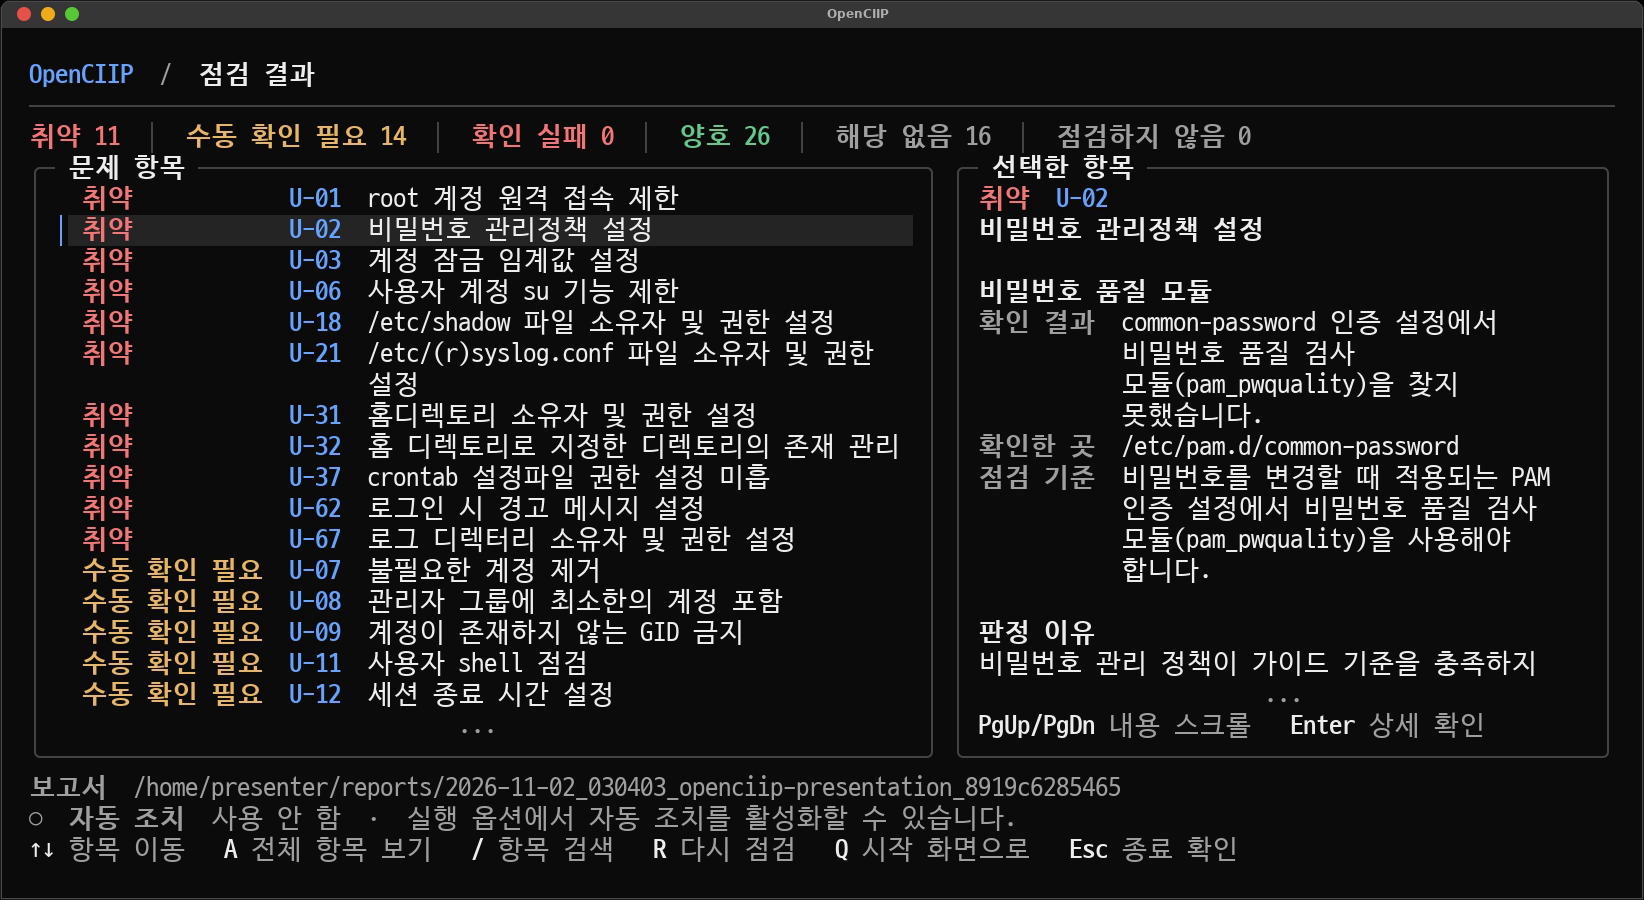
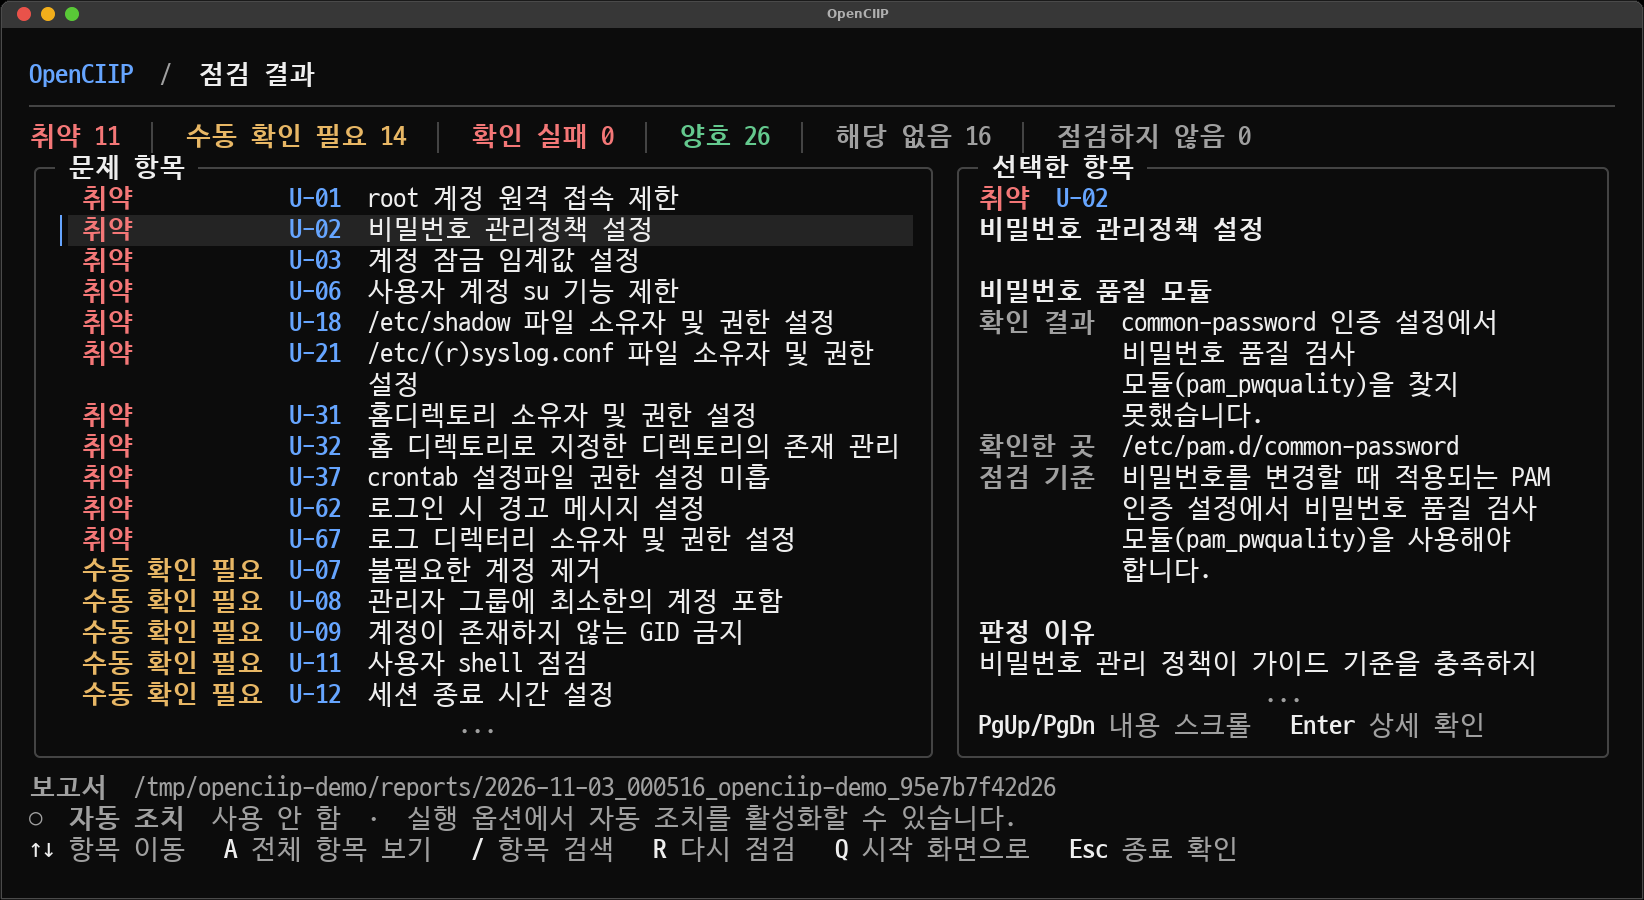
docs: README와 공개 문서 정리

diff --git a/internal/platform/support_fixture_test.go b/internal/platform/support_fixture_test.go
@@ -6,6 +6,7 @@ import (
 	"errors"
 	"fmt"
 	"io"
+	"maps"
 	"os"
 	"path/filepath"
 	"strings"
@@ -96,7 +97,11 @@ func TestTestedPlatformFixturesMatchDefaultBindings(t *testing.T) {
 		if err != nil {
 			t.Fatalf("read support document %s: %v", document, err)
 		}
-		actualRows := testedSupportRows(t, document, string(content))
+		actualRows, err := testedSupportRows(string(content))
+		if err != nil {
+			t.Errorf("parse support document %s: %v", document, err)
+			continue
+		}
 		for row := range expectedDocumentedRows {
 			if _, exists := actualRows[row]; !exists {
 				t.Errorf("support document %s is missing row %q", document, row)
@@ -110,21 +115,124 @@ func TestTestedPlatformFixturesMatchDefaultBindings(t *testing.T) {
 	}
 }
 
-func testedSupportRows(t *testing.T, document, content string) map[string]struct{} {
-	t.Helper()
+func testedSupportRows(content string) (map[string]struct{}, error) {
 	rows := make(map[string]struct{})
-	for _, line := range strings.Split(content, "\n") {
-		row := strings.TrimSpace(strings.TrimSuffix(line, "\r"))
-		if !strings.HasPrefix(row, "| ") || !strings.HasSuffix(row, "| 테스트 완료 |") {
-			continue
-		}
+	compact := false
+	lastProse := ""
+	addRow := func(row string) error {
 		if _, duplicate := rows[row]; duplicate {
-			t.Errorf("support document %s repeats tested row %q", document, row)
-			continue
+			return fmt.Errorf("repeated tested row %q", row)
 		}
 		rows[row] = struct{}{}
+		return nil
 	}
-	return rows
+	for _, line := range strings.Split(content, "\n") {
+		row := strings.TrimSpace(strings.TrimSuffix(line, "\r"))
+		if !strings.HasPrefix(row, "|") || !strings.HasSuffix(row, "|") {
+			compact = false
+			if row != "" {
+				lastProse = row
+			}
+			continue
+		}
+		cells := strings.Split(strings.Trim(row, "|"), "|")
+		for index := range cells {
+			cells[index] = strings.TrimSpace(cells[index])
+		}
+		if len(cells) == 2 && cells[0] == "운영체제" && cells[1] == "테스트 버전" {
+			if !strings.Contains(lastProse, "amd64") {
+				return nil, fmt.Errorf("compact support table does not specify Linux amd64 scope")
+			}
+			compact = true
+			continue
+		}
+		if compact {
+			if len(cells) != 2 {
+				return nil, fmt.Errorf("invalid compact support row %q", row)
+			}
+			if strings.Trim(cells[0], "-: ") == "" && strings.Trim(cells[1], "-: ") == "" {
+				continue
+			}
+			if cells[0] == "" {
+				return nil, fmt.Errorf("missing operating system in %q", row)
+			}
+			for _, version := range strings.Split(cells[1], ",") {
+				version = strings.TrimSpace(version)
+				if version == "" {
+					return nil, fmt.Errorf("missing version in %q", row)
+				}
+				if err := addRow(fmt.Sprintf("| %s | %s | amd64 | 테스트 완료 |", cells[0], version)); err != nil {
+					return nil, err
+				}
+			}
+			continue
+		}
+		if strings.HasPrefix(row, "| ") && strings.HasSuffix(row, "| 테스트 완료 |") {
+			if err := addRow(row); err != nil {
+				return nil, err
+			}
+		}
+	}
+	return rows, nil
+}
+
+func TestTestedSupportRows(t *testing.T) {
+	tested := map[string]struct{}{
+		"| Ubuntu | 22.04 LTS | amd64 | 테스트 완료 |": {},
+		"| Ubuntu | 26.04 LTS | amd64 | 테스트 완료 |": {},
+	}
+	tests := []struct {
+		name    string
+		content string
+		want    map[string]struct{}
+		wantErr bool
+	}{
+		{
+			name: "one version per row",
+			content: "| 운영체제 | 버전 | 아키텍처 | 상태 |\n" +
+				"| Ubuntu | 22.04 LTS | amd64 | 테스트 완료 |\n" +
+				"| Ubuntu | 26.04 LTS | amd64 | 테스트 완료 |\n",
+			want: tested,
+		},
+		{
+			name: "versions grouped by operating system",
+			content: "다음 환경은 amd64에서 점검했습니다.\n\n" +
+				"| 운영체제 | 테스트 버전 |\n| --- | --- |\n" +
+				"| Ubuntu | 22.04 LTS, 26.04 LTS |\n",
+			want: tested,
+		},
+		{
+			name: "grouped table without architecture",
+			content: "| 운영체제 | 테스트 버전 |\n| --- | --- |\n" +
+				"| Ubuntu | 22.04 LTS |\n",
+			wantErr: true,
+		},
+		{
+			name: "duplicate version in grouped table",
+			content: "다음 Linux amd64 환경에서 점검했습니다.\n\n" +
+				"| 운영체제 | 테스트 버전 |\n| --- | --- |\n" +
+				"| Ubuntu | 22.04 LTS, 22.04 LTS |\n",
+			wantErr: true,
+		},
+		{
+			name: "missing version in grouped table",
+			content: "다음 Linux amd64 환경에서 점검했습니다.\n\n" +
+				"| 운영체제 | 테스트 버전 |\n| --- | --- |\n" +
+				"| Ubuntu | 22.04 LTS, |\n",
+			wantErr: true,
+		},
+	}
+	for _, test := range tests {
+		t.Run(test.name, func(t *testing.T) {
+			got, err := testedSupportRows(test.content)
+			if (err != nil) != test.wantErr {
+				t.Fatalf("testedSupportRows() error = %v, want error %t", err, test.wantErr)
+			}
+			if !test.wantErr && !maps.Equal(got, test.want) {
+				t.Fatalf("testedSupportRows() = %v, want %v", got, test.want)
+			}
+		})
+	}
 }
 
 func loadSupportFixture(t *testing.T, path string) supportFixture {

diff --git a/README.md b/README.md
@@ -1,99 +1,83 @@
 # OpenCIIP
 
-Linux 서버의 보안 설정을 점검하고 결과를 정리하는 터미널 도구입니다. 주요정보통신기반시설 기술적 취약점 분석·평가 방법 상세가이드의 Unix 서버 항목을 기준으로 합니다.
+OpenCIIP는 [주요정보통신기반시설 기술적 취약점 분석·평가 방법 상세가이드](https://www.kisa.or.kr/2060204/form?postSeq=22)의 Unix 서버 항목을 기반으로 Linux 서버의 보안 설정을 점검하는 도구입니다.
 
 [![Go](https://img.shields.io/badge/Go-1.26%2B-00ADD8?style=flat-square&logo=go&logoColor=white)](https://go.dev/) [![Linux](https://img.shields.io/badge/Linux-amd64-FCC624?style=flat-square&logo=linux&logoColor=black)](https://www.kernel.org/) [![Bubble Tea](https://img.shields.io/badge/TUI-Bubble%20Tea-7D56F4?style=flat-square)](https://github.com/charmbracelet/bubbletea) [![Cobra](https://img.shields.io/badge/CLI-Cobra-46A2F1?style=flat-square)](https://github.com/spf13/cobra) [![License](https://img.shields.io/badge/License-Apache%202.0-D22128?style=flat-square&logo=apache&logoColor=white)](LICENSE)
 
-[빠른 시작](#빠른-시작) · [점검 결과](#점검-결과) · [지원 환경](#지원-환경) · [자동 조치](#자동-조치) · [문서](#문서)
+[시작하기](#시작하기) · [점검 결과](#점검-결과) · [지원 환경](#지원-환경) · [자동 조치](#자동-조치) · [문서](#문서)
 
-![OpenCIIP 터미널의 점검 결과 화면](assets/openciip-results.png)
-
-<sub>점검 결과 화면 예시 · 개발 중인 버전</sub>
+![OpenCIIP 시작 화면](assets/openciip-home.png)
 
 ## 주요 기능
 
-- U-01부터 U-67까지 서버 설정을 읽기 전용으로 점검합니다.
-- 터미널 화면에서 항목별 확인 결과와 점검 기준을 살펴볼 수 있습니다.
-- CLI로 전체 항목이나 필요한 항목만 선택해 점검할 수 있습니다.
-- JSON과 텍스트 보고서를 생성하며 민감정보는 기본적으로 가립니다.
-- 지원 환경에서 일부 취약 항목의 변경 계획과 자동 조치를 제공합니다.
+- 전체 또는 선택 항목 점검
+- 각 항목의 판정 결과, 관련 설정 및 점검 기준 조회
+- JSON 및 텍스트 보고서 생성, 민감정보 기본 마스킹
+- 자동 조치 (현재 일부 항목만 지원)
 
-## 빠른 시작
+기본 점검은 시스템 설정을 변경하지 않는 읽기 전용 방식으로 수행됩니다.
 
-[Releases](https://github.com/yesidodo73/OpenCIIP/releases)에서 `openciip-linux-amd64`를 내려받습니다. 실행 파일에 점검 규칙이 포함되어 있으므로 서버에 Go나 별도 규칙 파일을 설치할 필요는 없습니다.
+## 시작하기
 
-실행 권한을 부여한 뒤 터미널 화면을 시작합니다.
+[Releases](https://github.com/yesidodo73/OpenCIIP/releases)에서 `openciip-linux-amd64`를 다운로드하고 실행 권한을 부여합니다. 점검 규칙은 실행 파일에 포함되어 있습니다.
 
 ```bash
 chmod +x ./openciip-linux-amd64
 sudo ./openciip-linux-amd64
 ```
 
-CLI에서 정상 항목을 포함한 전체 결과를 확인하려면 다음과 같이 실행합니다.
+시작 화면에서 `점검 시작`을 선택하면 전체 항목을 점검합니다. 점검할 항목이나 보고서 저장 경로, 증적 저장 범위 등은 `실행 옵션`에서 변경할 수 있습니다.
 
-```bash
-sudo ./openciip-linux-amd64 scan --all
-```
+![OpenCIIP 실행 옵션 화면](assets/openciip-options.png)
 
-특정 항목만 점검할 수도 있습니다.
+root 권한 없이 실행할 수도 있지만, 일부 시스템 설정에 접근하지 못해 점검이 제한될 수 있습니다.
 
-```bash
-sudo ./openciip-linux-amd64 scan --check U-01,U-02,U-03
-```
-
-root 권한이 없으면 보호된 설정과 시스템 상태를 확인하지 못할 수 있습니다. 옵션과 종료 코드는 [사용 방법](docs/USAGE.md)에서 확인하세요.
+실행 옵션에 관한 자세한 내용은 [사용 방법](docs/USAGE.md)을 참고하세요.
 
 ## 점검 결과
 
-| 화면과 TXT 표시 | JSON 상태 코드 | 의미 |
-| --- | --- | --- |
-| `양호` | `PASS` | 점검 기준을 충족합니다. |
-| `취약` | `FAIL` | 점검 기준을 충족하지 않습니다. |
-| `수동 확인 필요` | `UNKNOWN` | 현재 정보만으로 판단하기 어렵습니다. |
-| `확인 실패` | `ERROR` | 권한, 명령 실행 또는 설정 해석 중 오류가 발생했습니다. |
-| `해당 없음` | `NOT_APPLICABLE` | 해당 기능이나 서비스가 사용되지 않습니다. |
-| `점검하지 않음` | `SKIPPED` | 사용자가 점검에서 제외했습니다. |
+점검이 끝나면 결과 목록에서 각 항목의 판정 상태를 확인할 수 있습니다. 항목을 선택하고 `Enter`를 누르면 실제로 확인한 설정과 점검 기준을 볼 수 있습니다.
 
-기본 화면에는 확인이 필요한 항목만 표시합니다. 보고서는 기본적으로 현재 디렉터리의 `reports/`에 저장됩니다. 비밀번호, 해시, 토큰, 개인 키 등은 기본적으로 가려지며, 마스킹을 해제한 보고서는 공유하지 마세요.
+![OpenCIIP 점검 결과 화면](assets/openciip-results.png)
+
+보고서는 기본적으로 현재 디렉터리의 `reports/`에 저장됩니다. 비밀번호, 해시, 토큰, 개인 키 등 민감정보는 기본적으로 가려지며, 마스킹을 해제한 보고서를 외부에 공유하지 않도록 주의해야 합니다.
+
+터미널 UI를 사용하지 않고 명령줄에서 바로 점검할 수도 있습니다.
+
+```bash
+sudo ./openciip-linux-amd64 scan --all
+sudo ./openciip-linux-amd64 scan --check U-01,U-02,U-03
+```
 
 ## 지원 환경
 
-읽기 전용 점검은 Linux에서 실행할 수 있으며 배포판과 설정에 따라 일부 항목은 `수동 확인 필요` 또는 `해당 없음`으로 표시될 수 있습니다. 아래 amd64 환경에서는 `0.1.0` 버전으로 67개 항목의 전체 읽기 전용 점검을 완료했습니다.
+OpenCIIP의 읽기 전용 점검 기능은 Linux에서 사용할 수 있습니다. 배포판과 시스템 구성에 따라 일부 항목은 `수동 확인 필요` 또는 `해당 없음`으로 판정될 수 있습니다.
 
-| 운영체제 | 버전 | 아키텍처 | 점검 상태 |
-| --- | --- | --- | --- |
-| Rocky Linux | 9.5 | amd64 | 테스트 완료 |
-| Rocky Linux | 9.6 | amd64 | 테스트 완료 |
-| Rocky Linux | 9.7 | amd64 | 테스트 완료 |
-| Rocky Linux | 9.8 | amd64 | 테스트 완료 |
-| Ubuntu | 18.04 LTS | amd64 | 테스트 완료 |
-| Ubuntu | 20.04 LTS | amd64 | 테스트 완료 |
-| Ubuntu | 22.04 LTS | amd64 | 테스트 완료 |
-| Ubuntu | 24.04 LTS | amd64 | 테스트 완료 |
-| Ubuntu | 26.04 LTS | amd64 | 테스트 완료 |
-| CentOS Linux | 8.5.2111 | amd64 | 테스트 완료 |
+다음 Linux amd64 환경에서 `0.1.0` 버전으로 67개 항목의 전체 점검을 완료했습니다.
 
-전체 점검 완료는 읽기 전용 점검을 기준으로 하며 자동 조치 지원 여부와는 별개입니다. 자세한 점검 범위는 [점검 문서](docs/CHECKS.md)를 확인하세요.
+| 운영체제 | 테스트 버전 |
+| --- | --- |
+| Rocky Linux | 9.5, 9.6, 9.7, 9.8 |
+| Ubuntu | 18.04 LTS, 20.04 LTS, 22.04 LTS, 24.04 LTS, 26.04 LTS |
+| CentOS Linux | 8.5.2111 |
+
+항목별 점검 기준과 결과 분류는 [점검 범위와 결과](docs/CHECKS.md)에 정리되어 있습니다.
 
 ## 자동 조치
 
-위 환경에서는 U-19, U-22, U-29의 자동 조치를 지원합니다. 다른 항목은 자동 조치 대상이 아닙니다. `0.1.0`에서는 세 항목의 적용 후 재점검과 실행 전체 롤백, 재부팅 후 실행 전체 롤백을 확인했습니다. 항목별 롤백은 U-22에서 확인했습니다.
-
-현재 소스에서는 수정되지 않은 사전 릴리스 빌드도 사용할 수 있습니다. 수정된 `+dirty` 빌드에서는 실제 조치와 사용자 요청 롤백이 차단됩니다. 이전 릴리스의 동작은 다를 수 있습니다.
+현재 U-19, U-22, U-29의 파일 소유자와 권한을 조치할 수 있습니다. 적용 전에는 변경 계획을 확인하고 승인해야 합니다.
 
 > [!WARNING]
-> 자동 조치는 실제 시스템의 파일 소유자나 권한을 변경합니다. 테스트를 마쳤더라도 서버마다 서비스 구성과 사용 방식이 다르므로 실제 영향이 달라질 수 있습니다. 적용 전에 점검 결과와 변경 대상, dry-run 내용, 백업과 롤백 가능 여부를 확인하고 신중하게 선택하세요.
+> 자동 조치는 아직 개발 중인 기능입니다. 예상하지 못한 버그나 시스템 환경에 따른 문제로 파일 소유자 및 권한이 잘못 변경되거나 서비스 장애가 발생할 수 있습니다. 실행 전에 변경 내용을 확인하고 중요한 데이터를 백업하는 것을 권장합니다.
 
-OpenCIIP의 결과는 기술적인 점검 자료입니다. 조직의 예외 정책, 자산 범위와 보완 통제를 포함한 최종 보안 판단은 별도로 확인하세요.
+테스트 과정과 관련 주의사항은 [검증 기록](evidence/os-support/README.md)에서 확인할 수 있습니다.
 
 ## 문서
 
-- [사용 방법](docs/USAGE.md): 실행 옵션, 보고서와 종료 코드
-- [점검 범위와 결과](docs/CHECKS.md): 점검 분류, 결과 상태와 테스트 환경
-- [기여하기](CONTRIBUTING.md): 소스 빌드와 변경 검증
-- [보안 정책](SECURITY.md): 취약점 신고 방법
-
-취약점을 발견했다면 공개 이슈에 세부 내용을 올리지 말고 보안 정책의 신고 방법을 이용해주세요.
+- [사용 방법](docs/USAGE.md) — 실행 옵션, 보고서 및 종료 코드
+- [점검 범위와 결과](docs/CHECKS.md) — 점검 분류, 결과 상태 및 테스트 환경
+- [기여하기](CONTRIBUTING.md) — 소스 빌드 및 변경 검증
+- [보안 정책](SECURITY.md) — 취약점 신고 방법
 
 ## 라이선스
 

diff --git a/docs/USAGE.md b/docs/USAGE.md
@@ -20,7 +20,11 @@ sudo ./openciip-linux-amd64
 
 점검 범위와 개별 점검은 목록에서 복수 선택합니다. TUI에서 보고서 경로를 직접 입력할 때는 절대경로를 사용합니다. 분류와 중요도 필터는 CLI에서 사용할 수 있습니다.
 
-자동 조치 옵션은 TUI 실행 옵션에 표시됩니다. 지원 환경에서 U-19, U-22, U-29 중 취약으로 판정된 항목을 대상으로 합니다. 적용 전에는 변경 계획과 영향을 확인하고 승인해야 하며, 검증되지 않은 OS·버전이나 다른 점검 항목에는 적용되지 않습니다. 실제 시스템에서는 서비스 구성에 따라 영향이 다를 수 있으므로 각 변경 내용을 신중하게 확인하세요. 현재 소스에서는 수정되지 않은 사전 릴리스 빌드도 사용할 수 있지만 `+dirty`로 표시되는 수정된 빌드에서는 실제 적용과 사용자 요청 롤백이 차단됩니다. 이전 릴리스는 동작이 다를 수 있습니다. 버전 3 저널의 사용자 요청 롤백은 기존 기록 형식을 유지하기 위해 정식 버전을 사용해야 합니다.
+자동 조치 옵션은 TUI 실행 옵션에 표시됩니다. 지원 환경에서 U-19, U-22, U-29 중 취약으로 판정된 항목을 대상으로 합니다. 적용 전에 변경 계획과 영향을 확인하고 승인해야 합니다. 실제 시스템에서는 서비스 구성에 따라 영향이 다를 수 있으므로 각 변경 내용을 신중하게 확인하세요.
+
+자동 조치에는 root 권한, systemd가 PID 1로 실행되는 호스트, ext4 또는 XFS 기반의 영속 로컬 저장소가 필요합니다. 컨테이너와 chroot 환경은 지원하지 않습니다.
+
+`0.1.1-alpha.16`에서는 수정되지 않은 사전 릴리스 빌드도 사용할 수 있지만, `+dirty`로 표시되는 수정된 빌드에서는 실제 조치와 롤백이 차단됩니다. 이전 릴리스는 동작이 다를 수 있으며, 버전 3 형식으로 기록된 롤백에는 정식 버전이 필요합니다.
 
 `--quiet`와 `--no-color`는 비대화형 출력 옵션이므로 TUI 설정에서는 표시하지 않습니다.
 
@@ -72,7 +76,7 @@ results.json
 evidence/
 ```
 
-문제가 있는 항목의 증적만 저장하는 것이 기본값입니다. 모든 증적을 저장하려면 `--evidence all`, 증적 파일을 만들지 않으려면 `--evidence none`을 사용하세요.
+문제가 있는 항목의 증적만 저장하는 것이 기본값입니다. 모든 증적을 저장하려면 `--evidence all`, 증적 파일을 만들지 않으려면 `--evidence none`을 사용하세요. `evidence/` 디렉터리는 저장할 증적이 있을 때만 생성됩니다.
 
 터미널과 TXT 보고서의 점검 결과는 `취약`, `수동 확인 필요`, `확인 실패`, `양호`, `해당 없음`, `점검하지 않음` 순서로 표시됩니다. JSON에는 각각 `FAIL`, `UNKNOWN`, `ERROR`, `PASS`, `NOT_APPLICABLE`, `SKIPPED` 상태 코드를 기록합니다. 같은 상태의 항목은 항목 번호순으로 정렬됩니다.
 

diff --git a/evidence/os-support/README.md b/evidence/os-support/README.md
@@ -3,3 +3,5 @@
 이 디렉터리의 JSON은 `0.1.0` 검증 당시 생성된 기록입니다. 당시 항목별 롤백 시험은 U-22만 대상으로 했습니다. U-19와 U-29는 실행 전체 롤백으로 확인했지만, 기존 JSON의 `item_rollback_verified` 값은 세 항목 모두 `true`로 기록되어 있습니다.
 
 따라서 U-19와 U-29의 `0.1.0` 항목별 롤백 여부는 이 JSON만으로 확인할 수 없습니다. 기존 파일은 당시의 해시와 참조 관계를 보존하기 위해 그대로 두었으며, 새 버전의 검증 기록은 실제 시험 결과를 바탕으로 별도로 생성해야 합니다.
+
+Ubuntu 24.04의 기존 기록은 현재 플랫폼 및 조치 정의와 일치하지 않아 현재 검증 명령을 통과하지 못합니다. 과거 점검의 성공 여부와는 별개로, 현재 정의에 대한 검증 기록을 다시 확인해야 합니다.

diff --git a/CONTRIBUTING.md b/CONTRIBUTING.md
@@ -64,7 +64,7 @@ docs: 사용 방법 정리
 
 ## 버전
 
-OpenCIIP는 Semantic Versioning을 사용합니다. 현재 버전은 `internal/buildinfo/VERSION`에서 관리합니다.
+OpenCIIP는 Semantic Versioning을 사용합니다. 소스에서 빌드한 실행 파일의 버전은 `./openciip version`으로 확인할 수 있습니다.
 
 - 호환되는 버그 수정은 patch 버전을 올립니다.
 - 호환되는 기능 추가는 minor 버전을 올립니다.

diff --git a/.github/PULL_REQUEST_TEMPLATE/os-support.md b/.github/PULL_REQUEST_TEMPLATE/os-support.md
@@ -64,7 +64,7 @@
 ## 로컬 확인
 
 ```text
-go test ./cmd/openciip-support-evidence ./internal/supportevidence ./internal/platform ./internal/rules ./internal/remediation/recipe ./internal/remediation/workflow
+go test ./...
 go vet ./...
 go build ./cmd/openciip
 ```
